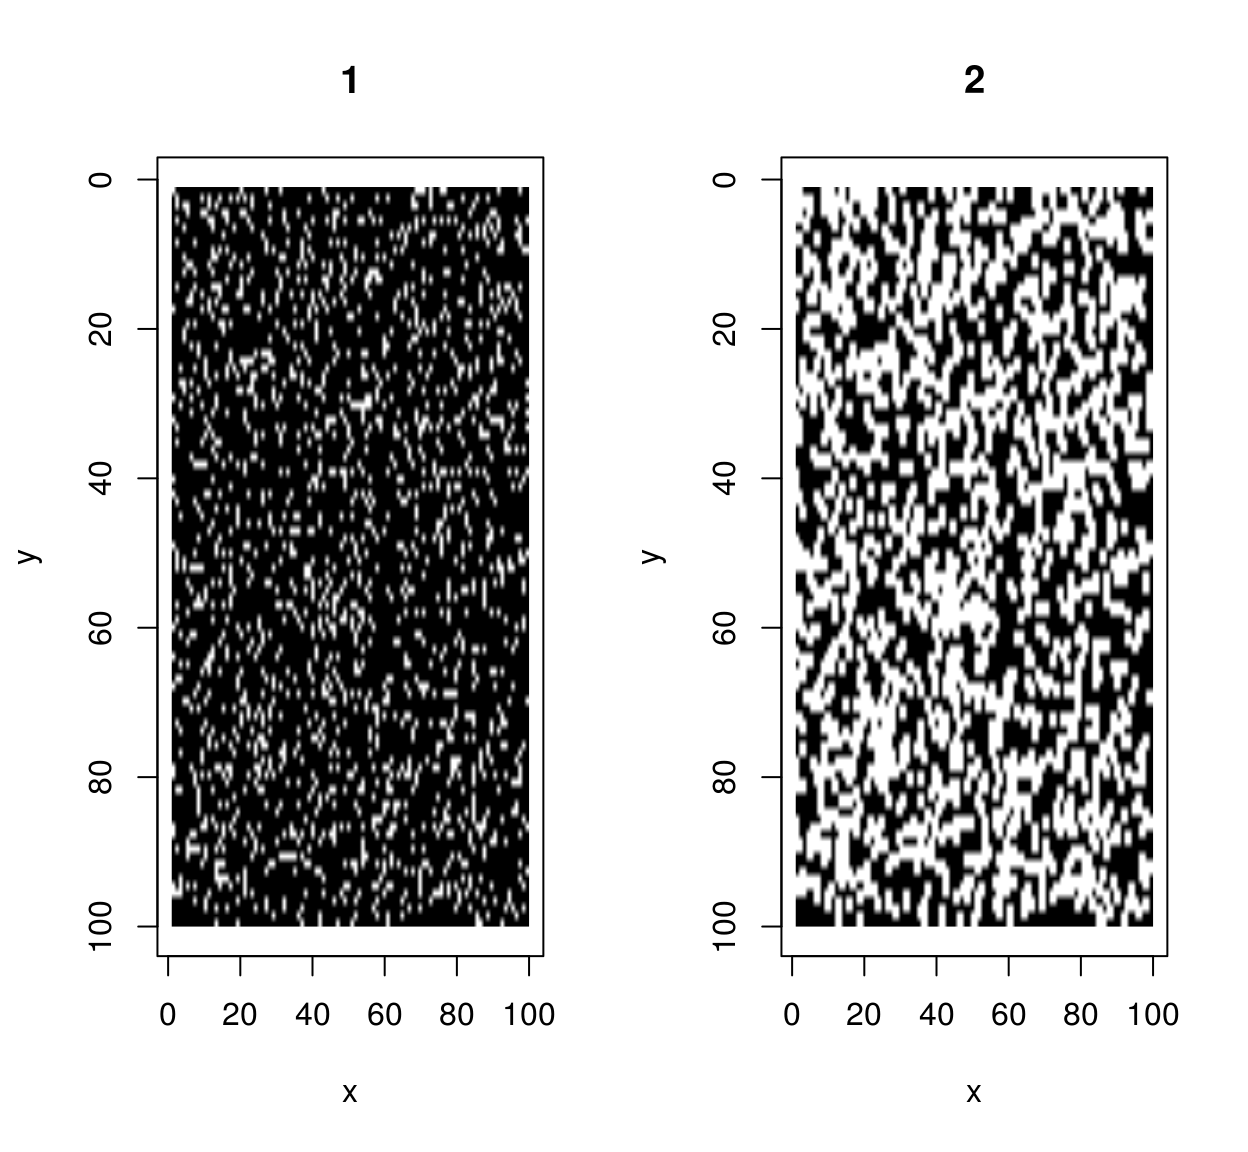
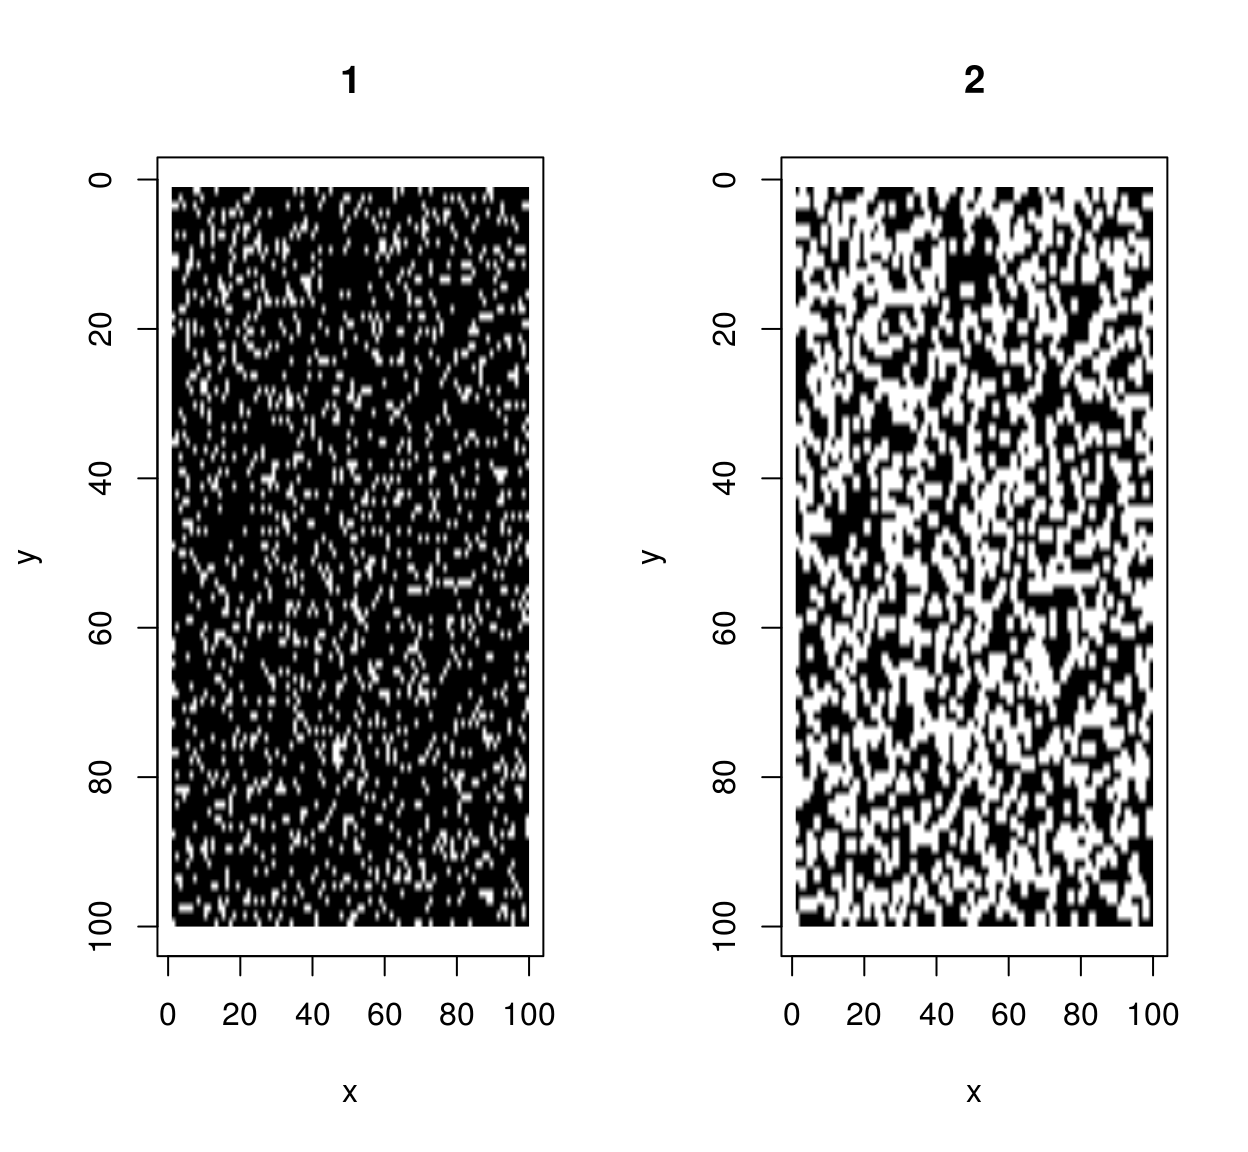
updated Canny stuff

Changed region(s): [[0.625, 0.1562, 0.9375, 0.8125], [0.125, 0.1562, 0.4375, 0.8125]]

diff --git a/canny.html b/canny.html
@@ -130,13 +130,34 @@ $(document).ready(function () {
 </div>
 
 <p><a href="http://sites.google.com/site/simonbarthelme">Simon Barthelmé</a> (GIPSA-lab, CNRS)</p>
-<p>The Canny edge detector is one of the canonical algorithms of computer vision. All implementations I’ve seen use several loops over pixel values. Loops in R are extremely slow, but on the other hand <em>vectorised</em> operations can be pretty fast. In this tutorial I’ll explain how to build a vectorised implementation of the Canny edge detector. Along the way we’ll see how to visualise gradient fields using ggplot.</p>
+<p>The Canny edge detector is one of the canonical algorithms of computer vision. All implementations I’ve seen use several loops over pixel values. Loops in R are extremely slow, but on the other hand <em>vectorised</em> operations can be pretty fast. In this tutorial I’ll explain how to build a vectorised implementation of the Canny edge detector, in a functional programming style.</p>
 <p>I’ll follow the structure of the algorithm as explained <a href="https://en.wikipedia.org/wiki/Canny_edge_detector">on the Wikipedia page</a>.</p>
 <div id="step-i-denoising" class="section level1">
 <h1><span class="header-section-number">1</span> Step I: denoising</h1>
 <p>Noise in the image can cause illusory edges to be detected. The traditional recommendation is Gaussian filtering, which is easy enough:</p>
-<pre class="r"><code>library(imager)
-im &lt;- grayscale(boats) %&gt;% isoblur(2) #2 pix. blur</code></pre>
+<pre class="r"><code>library(imager)</code></pre>
+<pre><code>## Loading required package: plyr</code></pre>
+<pre><code>## 
+## Attaching package: &#39;imager&#39;</code></pre>
+<pre><code>## The following object is masked _by_ &#39;.GlobalEnv&#39;:
+## 
+##     add</code></pre>
+<pre><code>## The following object is masked from &#39;package:plyr&#39;:
+## 
+##     liply</code></pre>
+<pre><code>## The following objects are masked from &#39;package:stats&#39;:
+## 
+##     convolve, spectrum</code></pre>
+<pre><code>## The following object is masked from &#39;package:graphics&#39;:
+## 
+##     frame</code></pre>
+<pre><code>## The following object is masked from &#39;package:magrittr&#39;:
+## 
+##     add</code></pre>
+<pre><code>## The following object is masked from &#39;package:base&#39;:
+## 
+##     save.image</code></pre>
+<pre class="r"><code>im &lt;- grayscale(boats) %&gt;% isoblur(2) #2 pix. blur</code></pre>
 <p>(NB: other filters may actually perform better here, for example the median filter).</p>
 </div>
 <div id="step-ii-computing-the-image-gradient-its-magnitude-and-angle" class="section level1">
@@ -253,18 +274,148 @@ out</code></pre>
 ## 
 ## $weak
 ## Image. Width: 256 pix Height: 384 pix Depth: 1 Colour channels: 1</code></pre>
-<pre class="r"><code>plot(out$strong)</code></pre>
+<pre class="r"><code>canny &lt;- out$strong
+plot(canny,main=&quot;Canny edges&quot;)</code></pre>
 <p><img src="canny_files/figure-html/unnamed-chunk-13-1.png" width="624" /></p>
-<pre class="r"><code>g3 &lt;- function(strong,weak)
+<p>Of course, in a way we are cheating here: the fixed point iteration is really a loop. But instead of looping over each pixel (which is slow, because there are many pixels), we run a global computation on all pixels, 70 times, which is much faster. The fact that it takes 70 iterations to rescue all the weak edges tells us that, in this image at least, some weak edges are hard to reach: there is a connection between the initial set of strong edges and some far-away weak edges. A better computational primitive in this case is the bucket fill (also called the “flood fill”), which you probably know from using your favourite image editor.</p>
+<pre class="r"><code>im1 &lt;- as.cimg(function(x,y) x == 50,100,100)
+layout(t(1:2))
+plot(im1,main=&quot;Bucket fill initialised at red point&quot;)
+points(80,80,col=&quot;red&quot;)
+bucketfill(im1,80,80,color=1,high_connex=TRUE) %&gt;% plot(main=&quot;Result&quot;)</code></pre>
+<p><img src="canny_files/figure-html/unnamed-chunk-14-1.png" width="624" /></p>
+<p>The bucketfill has a tolerance parameter, which sets a stopping criterion: if nearby pixels are more than “sigma” apart in value, they won’t be filled. The trick will consist in starting a bucket fill inside a strong region, and painting nearby weak pixels as strong. If we do this from all strong regions, we’ll have rescued all the weak edges that need to be rescued. To identify all strong regions, we use “label”:</p>
+<pre class="r"><code>labs &lt;- label(strong,high=TRUE)
+suppressWarnings((labs*strong) %&gt;% plot(.,colourscale=scales::div_gradient_pal()))</code></pre>
+<p><img src="canny_files/figure-html/unnamed-chunk-15-1.png" width="624" /></p>
+<p>label gives each distinct, connected region an integer label. To obtain a starting pixel inside each region, we use dplyr:</p>
+<pre class="r"><code>lab &lt;- label(strong,TRUE)*strong
+loc &lt;- as.data.frame(lab) %&gt;% dplyr::filter(value &gt; 0)%&gt;%
+    dplyr::group_by(value) %&gt;%
+    dplyr::summarize(x=x[1],y=y[1])
+plot(strong)
+points(loc$x,loc$y,col=&quot;red&quot;)</code></pre>
+<p><img src="canny_files/figure-html/unnamed-chunk-16-1.png" width="624" /></p>
+<p>For the bucket fill trick to work we need to be able to spread the value of strong pixels to their weak neighbour (but not elsewhere). We assign different values to strong and weak pixels:</p>
+<pre class="r"><code>v &lt;- strong
+v[weak==1] &lt;- .9 #Strong pixels have value 1, weak .9, and the rest are 0.</code></pre>
+<p>Finally we need to go through the list of seed pixels, and apply bucket fill every time. We could write a loop, but to keep with the functional style we have used so far we’ll cast this operation as a <em>fold</em>, using <em>reduce</em> from the <em>purrr</em> package. <em>reduce</em> takes a function of two arguments (an accumulator and an item), and reduces a list to a single item by accumulating. It’s best illustrated by example:</p>
+<pre class="r"><code>library(purrr)</code></pre>
+<pre><code>## 
+## Attaching package: &#39;purrr&#39;</code></pre>
+<pre><code>## The following object is masked from &#39;package:plyr&#39;:
+## 
+##     compact</code></pre>
+<pre><code>## The following object is masked from &#39;package:magrittr&#39;:
+## 
+##     set_names</code></pre>
+<pre class="r"><code>add &lt;- function(l) reduce(l,function(acc,item) acc+item,.init=0)
+add(1:3) #equals sum(1:3)</code></pre>
+<pre><code>## [1] 6</code></pre>
+<pre class="r"><code>mult &lt;- function(l) reduce(l,function(acc,item) acc*item,.init=1)
+mult(1:3) #equals prod(1:3)</code></pre>
+<pre><code>## [1] 6</code></pre>
+<pre class="r"><code>#put the three colour channels side-by-side
+imsplit(boats,&quot;c&quot;) %&gt;% reduce(function(acc,l) imappend(list(acc,l),&quot;x&quot;)) %&gt;% plot</code></pre>
+<p><img src="canny_files/figure-html/unnamed-chunk-18-1.png" width="624" /></p>
+<pre class="r"><code>#Gives a set of initial locations for the bucket fill
+fillInit &lt;- function(strong)
+    {
+        lab &lt;- label(strong,TRUE)*strong
+        as.data.frame(lab) %&gt;% dplyr::filter(value &gt; 0) %&gt;% dplyr::group_by(value) %&gt;% dplyr::summarize(x=x[1],y=y[1])
+
+    }
+
+#Starts a fill at each successive location, and accumulates the results
+rescueFill &lt;- function(strong,weak)
     {
         v &lt;- strong
-        v[weak==1] &lt;- .99
-        lab &lt;- label(strong,TRUE)*strong
-        loc &lt;- as.data.frame(lab) %&gt;% dplyr::filter(value &gt; 0) %&gt;% group_by(value) %&gt;% dplyr::summarize(x=x[1],y=y[1])
-        loc &lt;- select(loc,-value) %&gt;% transpose
-        out &lt;- Reduce(function(v,l) bucketfill(v,l$x,l$y,color=1,sigma=.1,high=TRUE),
-                      loc,init=v)
+        v[weak==1] &lt;- .9
+        loc &lt;- fillInit(strong)
+        #Transform the data.frame into a list of locations
+        loc &lt;- dplyr::select(loc,-value) %&gt;% transpose
+        #Fold
+        out &lt;- reduce(loc,function(v,l) bucketfill(v,l$x,l$y,color=1,sigma=.1,high=TRUE),
+                      .init=v)
         as.cimg(out==1)
+    }
+
+canny2 &lt;- rescueFill(strong,weak)
+all.equal(canny,canny2)</code></pre>
+<pre><code>## [1] TRUE</code></pre>
+<p>The second function is much faster, at least on this image (for this particular choice of thresholds):</p>
+<pre class="r"><code>system.time(hystFP(list(strong=strong,weak=weak)))</code></pre>
+<pre><code>##    user  system elapsed 
+##   0.735   0.000   0.735</code></pre>
+<pre class="r"><code>system.time(rescueFill(strong,weak))</code></pre>
+<pre><code>##    user  system elapsed 
+##   0.048   0.000   0.048</code></pre>
+<p>A full implementation of the canny edge detector is below:</p>
+<pre class="r"><code>nonmax &lt;- function(gr)
+    {
+        mag &lt;- with(gr,sqrt(x^2+y^2))
+        ang &lt;- with(gr,atan2(y,x))
+        grs &lt;- list(x=gr$x/mag,y=gr$y/mag)
+        X &lt;- Xc(gr$x)
+        Y &lt;- Yc(gr$y)
+        val.bwd &lt;- interp(mag,data.frame(x=as.vector(X-grs$x),
+                                         y=as.vector(Y -grs$y)))
+        val.fwd &lt;- interp(mag,data.frame(x=as.vector(X+grs$x),
+                                         y=as.vector(Y+grs$y)))
+        
+        throw &lt;- (mag &lt; val.bwd) | (mag &lt; val.fwd)
+        mag[throw] &lt;- 0
+        mag
+    }
+
+cannyEdges &lt;- function(im,t1,t2,method=&quot;fp&quot;)
+    {
+        mag &lt;- imgradient(im,&quot;xy&quot;) %&gt;% nonmax
+        strong &lt;- as.cimg(mag&gt;t2)
+        weak &lt;- as.cimg(mag %inr% c(t1,t2))
+        if (method==&quot;fp&quot;)
+            {
+                hystFP(list(strong=strong,weak=weak))$strong
+            }
+        else if (method==&quot;bucket&quot;)
+            {
+                rescueFill(strong,weak)
+            }
+    }
+
+parrots &lt;- load.example(&quot;parrots&quot;)*255
+grayscale(parrots) %&gt;% cannyEdges(.01,.1,method=&quot;bucket&quot;)  %&gt;% plot</code></pre>
+<p><img src="canny_files/figure-html/unnamed-chunk-21-1.png" width="624" /></p>
+<pre class="r"><code>hyst.naive &lt;- function(mag,t1,t2)
+    {
+        strong &lt;- mag&gt;t2
+        stack &lt;- which(strong)
+        weak &lt;- as.cimg(mag %inr% c(t1,t2))
+        max.x &lt;- width(mag)
+        max.y &lt;- height(mag)
+        while (length(stack)&gt;0)
+            {
+                ind &lt;- stack[1]
+                cc &lt;- coord.index(mag,ind)
+                for (nx in (cc$x+c(-1,0,1)))
+                {
+                    for (ny in (y+c(-1,0,1)))
+                    {
+                        if (nx &gt; 0 &amp;&amp; nx &lt;= max.x &amp;&amp; ny &gt; 0 &amp;&amp; ny &lt; max.y)
+                        {
+                            if (at(weak,nx,ny)==1)
+                            {
+                                at(weak,nx,ny) &lt;- 0
+                                at(strong,nx,ny) &lt;- 1
+                                stack[length(stack)+1] &lt;- index.coord(mag,data.frame(x=nx,y=ny))
+                            }
+                        }
+                    }
+                }
+                stack &lt;- stack[-1]
+            }
+
+        strong
     }</code></pre>
 </div>
 
